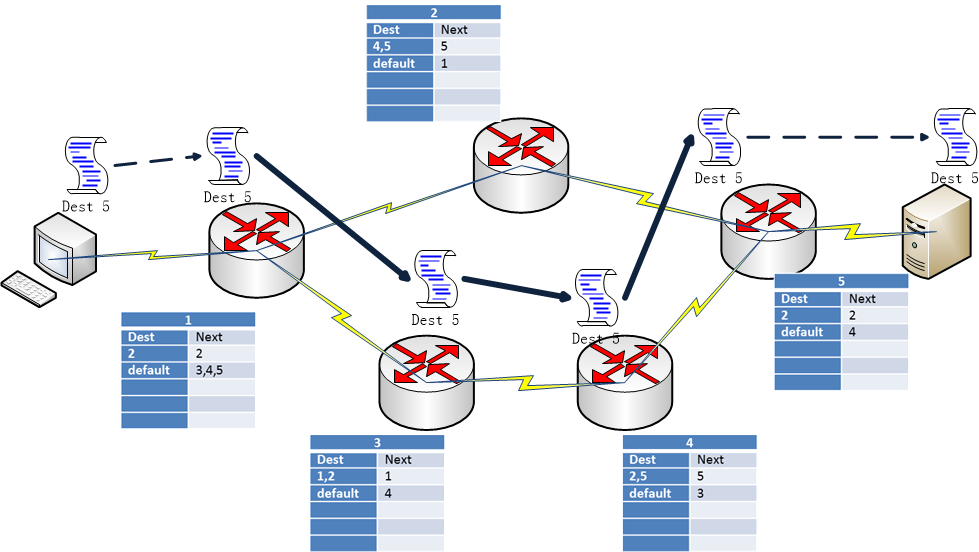
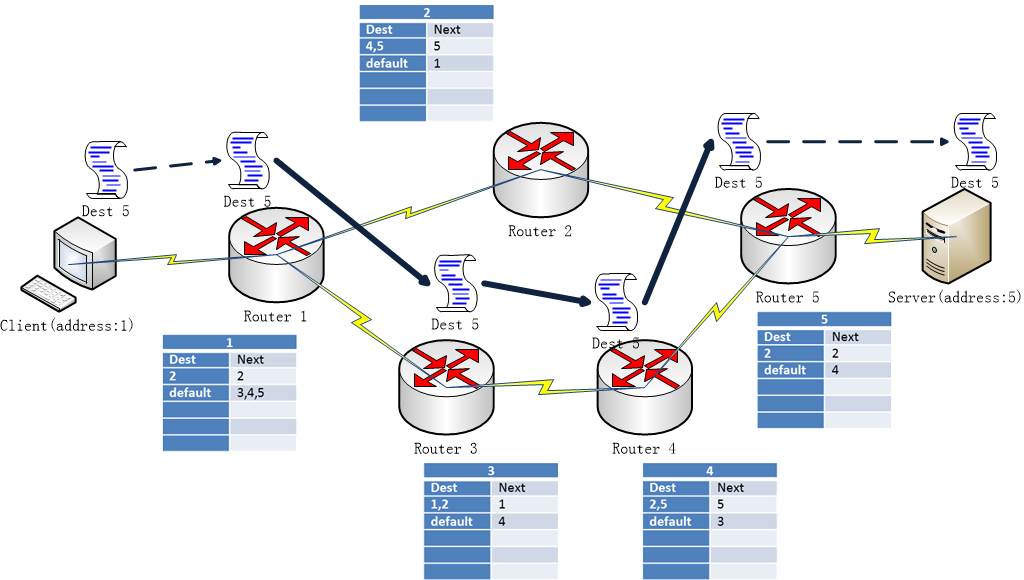
fix css

Changed region(s): [[0.0, 0.0, 1.0, 1.0]]

diff --git a/exp3/js/render.js b/exp3/js/render.js
@@ -35,9 +35,9 @@ paintEvaluation = function(p2pTopo, c2sTopo, route, clientsIndex, serverIndex, r
 	var c2sTopoCenter = view.center
 
 	var topoMin = (view.center.x > view.center.y? view.center.y:view.center.x)
-	var innerRadius = parseInt(topoMin/10*3.5)
-	var midRadius = parseInt(topoMin/10*6)
-	var outerRadius =parseInt(topoMin/10*8)
+	var innerRadius = parseInt(topoMin/20*7)
+	var midRadius = parseInt(topoMin/20*12)
+	var outerRadius =parseInt(topoMin/20*15)
 	
 	// renderTopoFrame(p2pTopo, p2pTopoCenter, 100, 200, 300)
 	// renderTopoFrame(c2sTopo, c2sTopoCenter, 100, 200, 300)
@@ -54,29 +54,40 @@ paintEvaluation = function(p2pTopo, c2sTopo, route, clientsIndex, serverIndex, r
 		// var p2pPath = renderBasicNode(p2pTopo, i)
 		// renderSpecialNode(p2pTopo, "p2p", p2pPath, i, route, routeTableScale, true, routeP2PAverageRate, clientsIndex, serverIndex)
 		var c2sPath = renderBasicNode(c2sTopo, i)
-		renderSpecialNode(c2sTopo, "c2s" , c2sPath, i, route, routeTableScale, true, routeC2SAverageRate, routeC2SBottleneck, clientsIndex, serverIndex)
+		renderSpecialNode(c2sTopo, "c2s" , c2sPath, i, route, routeTableScale, true, routeC2SAverageRate, routeC2SBottleneck, routeC2SPath, clientsIndex, serverIndex)
 	}
 	// 在中心画出server
 	renderOnlyServerInCenter(c2sTopo, serverIndex)
 
 	// renderTrafficPath(p2pTopo, routeP2PAverageRate, routeP2PPath)
 	renderTrafficPath(c2sTopo, routeC2SAverageRate, routeC2SPath)
+
 	var ClientText = new PointText({
 		point: [2, 30],
 		content: "Rate on Client represents the final transmissioin rate it got",
 		fillColor: 'blue',
 		fontFamily: 'Lato, sans-serif',
-		fontWeight: 'bold',
-		fontSize: 12
+		// fontWeight: 'bold',
+		fontSize: 13
 	});
 	var RouteText = new PointText({
-		point: [2, 45],
+		point: [2, 50],
 		content: "Rate on Route represents the average transmissioin rate by clients",
 		fillColor: 'blue',
 		fontFamily: 'Lato, sans-serif',
-		fontWeight: 'bold',
-		fontSize: 12
+		// fontWeight: 'bold',
+		fontSize: 13
 	});
+	var TrafficText = new PointText({
+		point: [2, 70],
+		content: "The width of a red line represents the weight of traffic on the path",
+		fillColor: 'blue',
+		fontFamily: 'Lato, sans-serif',
+		// fontWeight: 'bold',
+		fontSize: 13
+	});
+	renderClickHintArrow(c2sTopo, 27)
+
 	console.log("render done!")
 }
 
@@ -98,12 +109,37 @@ paintTopo = function(flag, topo, info, nodes, myRoute, routeTableScale) {
 		if(flag != -1 ){
 			if($.inArray(i, nodes[info["userId"]]) != -1){
 
-				renderSpecialNode(topo, "", path, i, myRoute, routeTableScale, false, null, null, null, null)
+				renderSpecialNode(topo, "", path, i, myRoute, routeTableScale, false, null, null, null, null, null)
 			}
 		}
 	}
 
 	console.log("render done!")
+}
+
+var renderClickHintArrow = function(topo, index) {
+	var hintNodeRadius = getCircleSize(topo.avaliableLength, index)
+	var hintTargtet = topo.nodeList.get(index)
+	var to = new Point(hintTargtet.x, hintTargtet.y - hintNodeRadius)
+	var from = new Point(hintTargtet.x + 30, hintTargtet.y -30)
+	var through = new Point(hintTargtet.x + 20, hintTargtet.y - 40)
+	var hintArrow = new Path.Arc(from, through, to);
+	var arrowLeft = new Path.Line(new Point(to.x-10, to.y -13), to)
+	var arrowRight = new Path.Line(new Point(to.x+8, to.y -15), to)
+	hintArrow.strokeColor = 'yellow';
+	arrowLeft.strokeColor = 'yellow';
+	arrowRight.strokeColor = 'yellow';
+	hintArrow.sendToBack()
+	arrowLeft.sendToBack()
+	arrowRight.sendToBack()
+
+	var hintText = new PointText({
+		point: from,
+		content: "Click to view routing tables",
+		fillColor: 'yellow',
+		fontFamily: 'Lato, sans-serif',
+		fontSize: 13
+	});
 }
 
 var renderOnlyServerInCenter = function(topo, serverIndex) {
@@ -158,12 +194,12 @@ var renderTrafficPath = function(topo, averageRate, routePaths) {
 			continue
 		var p = topo.nodeList.get(index);
 		var text = new PointText({
-			point: [p.x+15, p.y+20],
+			point: [p.x+12, p.y+20],
 			content: averageRate[index] +"Mbps",
 			fillColor: 'black',
 			fontFamily: 'Courier New',
-			fontWeight: 'bold',
-			fontSize: 10
+			// fontWeight: 'bold',
+			fontSize: 13
 		});
 		text.bringToFront()
 	}
@@ -196,7 +232,7 @@ var renderTopoFrame = function(topo, center, innerRadius, midRadius, outerRadius
 
 	if(clientNum!=0){
 		for(var i = num; i < num+outerNum; i ++) {
-			var clientOuter = new Path.RegularPolygon(center, outerNum, outerRadius+innerRadius/9*4);
+			var clientOuter = new Path.RegularPolygon(center, outerNum, outerRadius+innerRadius/2*1);
 			var tmp = clientOuter.segments[i - num].point
 			topo.nodeList.set(i, tmp.x, tmp.y)
 		}
@@ -226,7 +262,7 @@ var renderBasicNode = function(topo, index){
 }
 
 // 涂上特定颜色，并且导入该节点路由表；如果是isEvaluation，还需要标识出client和server，颜色要用深浅表示
-var renderSpecialNode = function(topo, topoName, basicPath, index, myRoute, routeTableScale, isEvaluation, averageRate, routeC2SBottleneck, clientsIndex, serverIndex){
+var renderSpecialNode = function(topo, topoName, basicPath, index, myRoute, routeTableScale, isEvaluation, averageRate, routeC2SBottleneck, routeC2SPath, clientsIndex, serverIndex){
 	var num = topo.avaliableLength;
 	var outerNum = num - parseInt(num/3) * 2
 	
@@ -240,17 +276,37 @@ var renderSpecialNode = function(topo, topoName, basicPath, index, myRoute, rout
 		if(index > num-1){
 			basicPath.remove()
 			if($.inArray(index - outerNum, clientsIndex) !=- 1){
+				var tmp = index - outerNum
+				var putLeft = [29, 20, 21, 22, 23]
+				var putRight = [25, 26, 27, 28, 24]
+				var node_x = 0, node_y
+				if($.inArray(tmp, putLeft) != -1){
+					node_x = node.x-100
+					node_y = node.y
+				} else{
+					node_x = node.x+20
+					node_y = node.y
+				}
 				var raster = new Raster(clientUrl, new Point(node.x, node.y));
 				raster.scale(0.3)
 				var text = new PointText({
-				point: [node.x+10, node.y+25],
-				content: routeC2SBottleneck[index - outerNum] + "Mbps",
+				point: [node_x, node_y],
+				content: "Rate:"+routeC2SBottleneck[index - outerNum] + "Mbps",
 				fillColor: 'blue',
 				fontFamily: 'Courier New',
 				fontWeight: 'bold',
-				fontSize: 10
+				fontSize: 13
 				});
 				text.bringToFront()
+				var plText = new PointText({
+				point: [node_x, node_y+15],
+				content: "Length:"+routeC2SPath[index - outerNum].length,
+				fillColor: 'blue',
+				fontFamily: 'Courier New',
+				fontWeight: 'bold',
+				fontSize: 13
+				});
+				plText.bringToFront()
 			}
 			return;
 		}

diff --git a/exp3/js/gameManager.js b/exp3/js/gameManager.js
@@ -82,8 +82,8 @@ GameManager.prototype.getinfo = function(){
 		}
 		else if(step == 3){
 			$("#statusText").text("The experiment is end!")
-			var str = "客户端获得平均速率:  " + (data["averageRateScore"]).toFixed(2) + "Mbps </br>客户端到服务器平均路径长度为"+(data["averageLengthScore"]).toFixed(2)+" </br>实验最终得分是（满分100分）:  "+  data["finalScore"]
-			$("<div><h3>实验成绩</h3><span class='middle-text' style='color:red;font-size:1em'>"+str+"</span></div>").appendTo("#ControlBoard")
+			var str = "客户端获得平均速率:  " + (data["averageRateScore"]).toFixed(2) + "Mbps </br>客户端到服务器平均路径长度为"+(data["averageLengthScore"]).toFixed(2)+" </br>实验测评是:  "+  data["finalScore"]
+			$("<div><h3>实验测评</h3><span class='middle-text' style='color:red;font-size:1em'>"+str+"</span></div>").appendTo("#ControlBoard")
 			$("#gameAction").remove()
 		}
 
@@ -329,7 +329,7 @@ GameManager.prototype.fourthStep = function(data) {
 	// result在18~63范围
 	var finalScore = parseInt((rateResult-18)/(63-18)*20 + 65 + (15 - (lengthResult-3)/(10-3)*15))
 	if(finalScore > 100)finalScore=100
-	console.log("客户端获得平均速率:  " + (rateResult).toFixed(2) + "Mbps </br>客户端到服务器平均路径长度为"+(lengthResult).toFixed(2)+" </br>实验最终得分是"+ finalScore)
+	console.log("客户端获得平均速率:  " + (rateResult).toFixed(2) + "Mbps </br>客户端到服务器平均路径长度为"+(lengthResult).toFixed(2)+" </br>实验测评得分是"+ finalScore)
 	_this.ajax.score = JSON.stringify({"averageRateScore":rateResult,"averageLengthScore":lengthResult, "practiceRateScore":practiceRateScore, "practiceLengthScore":practiceLengthScore, "finalScore":finalScore})
 	_this.ajax.submitRouteEvaluation(function(data){
 		console.log(data)
@@ -343,7 +343,7 @@ GameManager.prototype.fourthStep = function(data) {
 			return
 		}else{
 			console.log(data)
-			alert("客户端获得平均速率:  " + (data["averageRateScore"]).toFixed(2) + "Mbps，客户端到服务器平均路径长度为"+(data["averageLengthScore"]).toFixed(2)+"，实验最终得分是"+  data["finalScore"])
+			alert("客户端获得平均速率:  " + (data["averageRateScore"]).toFixed(2) + "Mbps，客户端到服务器平均路径长度为"+(data["averageLengthScore"]).toFixed(2)+"，实验测评得分是"+  data["finalScore"])
 			location.reload()
 			return
 		}

diff --git a/exp3/index.html b/exp3/index.html
@@ -120,6 +120,7 @@
 				</ol>
 				<h2>Experiment Score</h2>
 				<p>The target 1 is 65 grades. Once you can get through the simulation, you can get the 65 grades. <br/>The target 2 is 35 grades, average transmission rate of clients for 20 grades and average path length from clients to server for 15 grades.</p>
+				<p>When you submit your experiment, the system will give an evaluation score. When all the students finished the experiments, we will give you a more appropriate score based on all the teams performances in the experiment.
 				<h2>Further Reading</h2>
 				<ul>
 					<li><a href="http://ucas-2014.tk/static/download/Computer-Networking-A-Top-Down-Approach-6th-Edition.pdf" target="_blank">计算机网络_自顶向下方法（英文第6版）</a></li>

diff --git a/exp3/css/style.css b/exp3/css/style.css
@@ -73,3 +73,7 @@ b{
 	font-size:1em;
 	font-family: serif;
 }
+
+#statusText{
+	font-size: 0.9em;
+}
